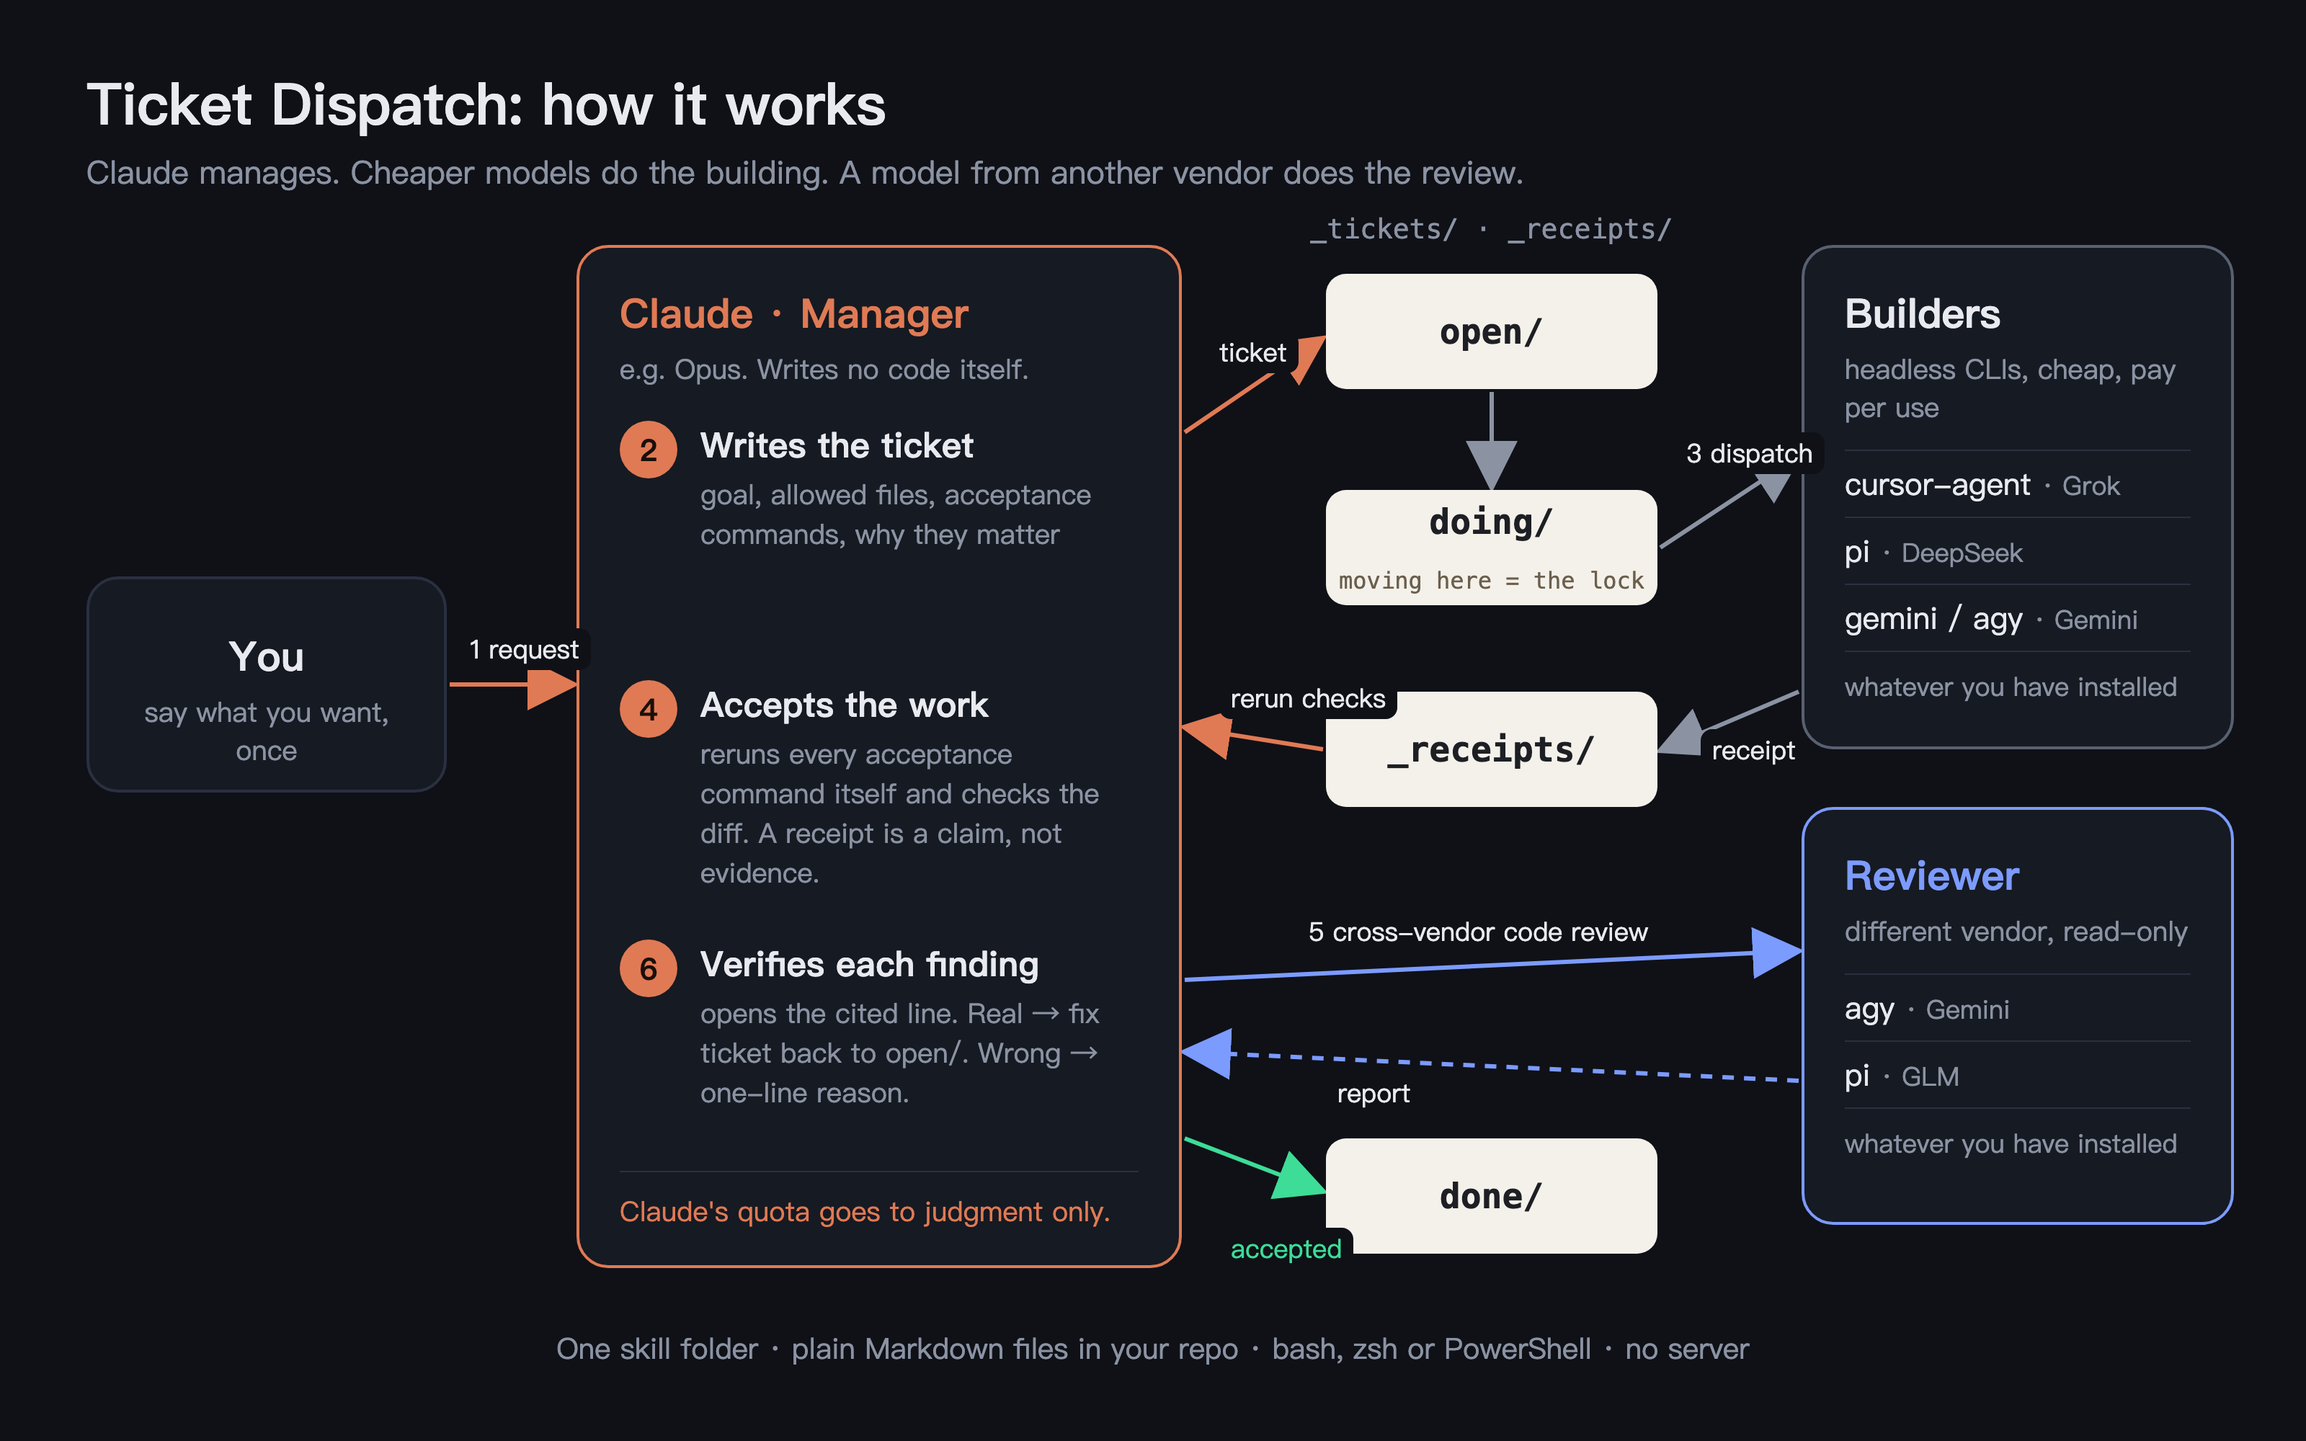
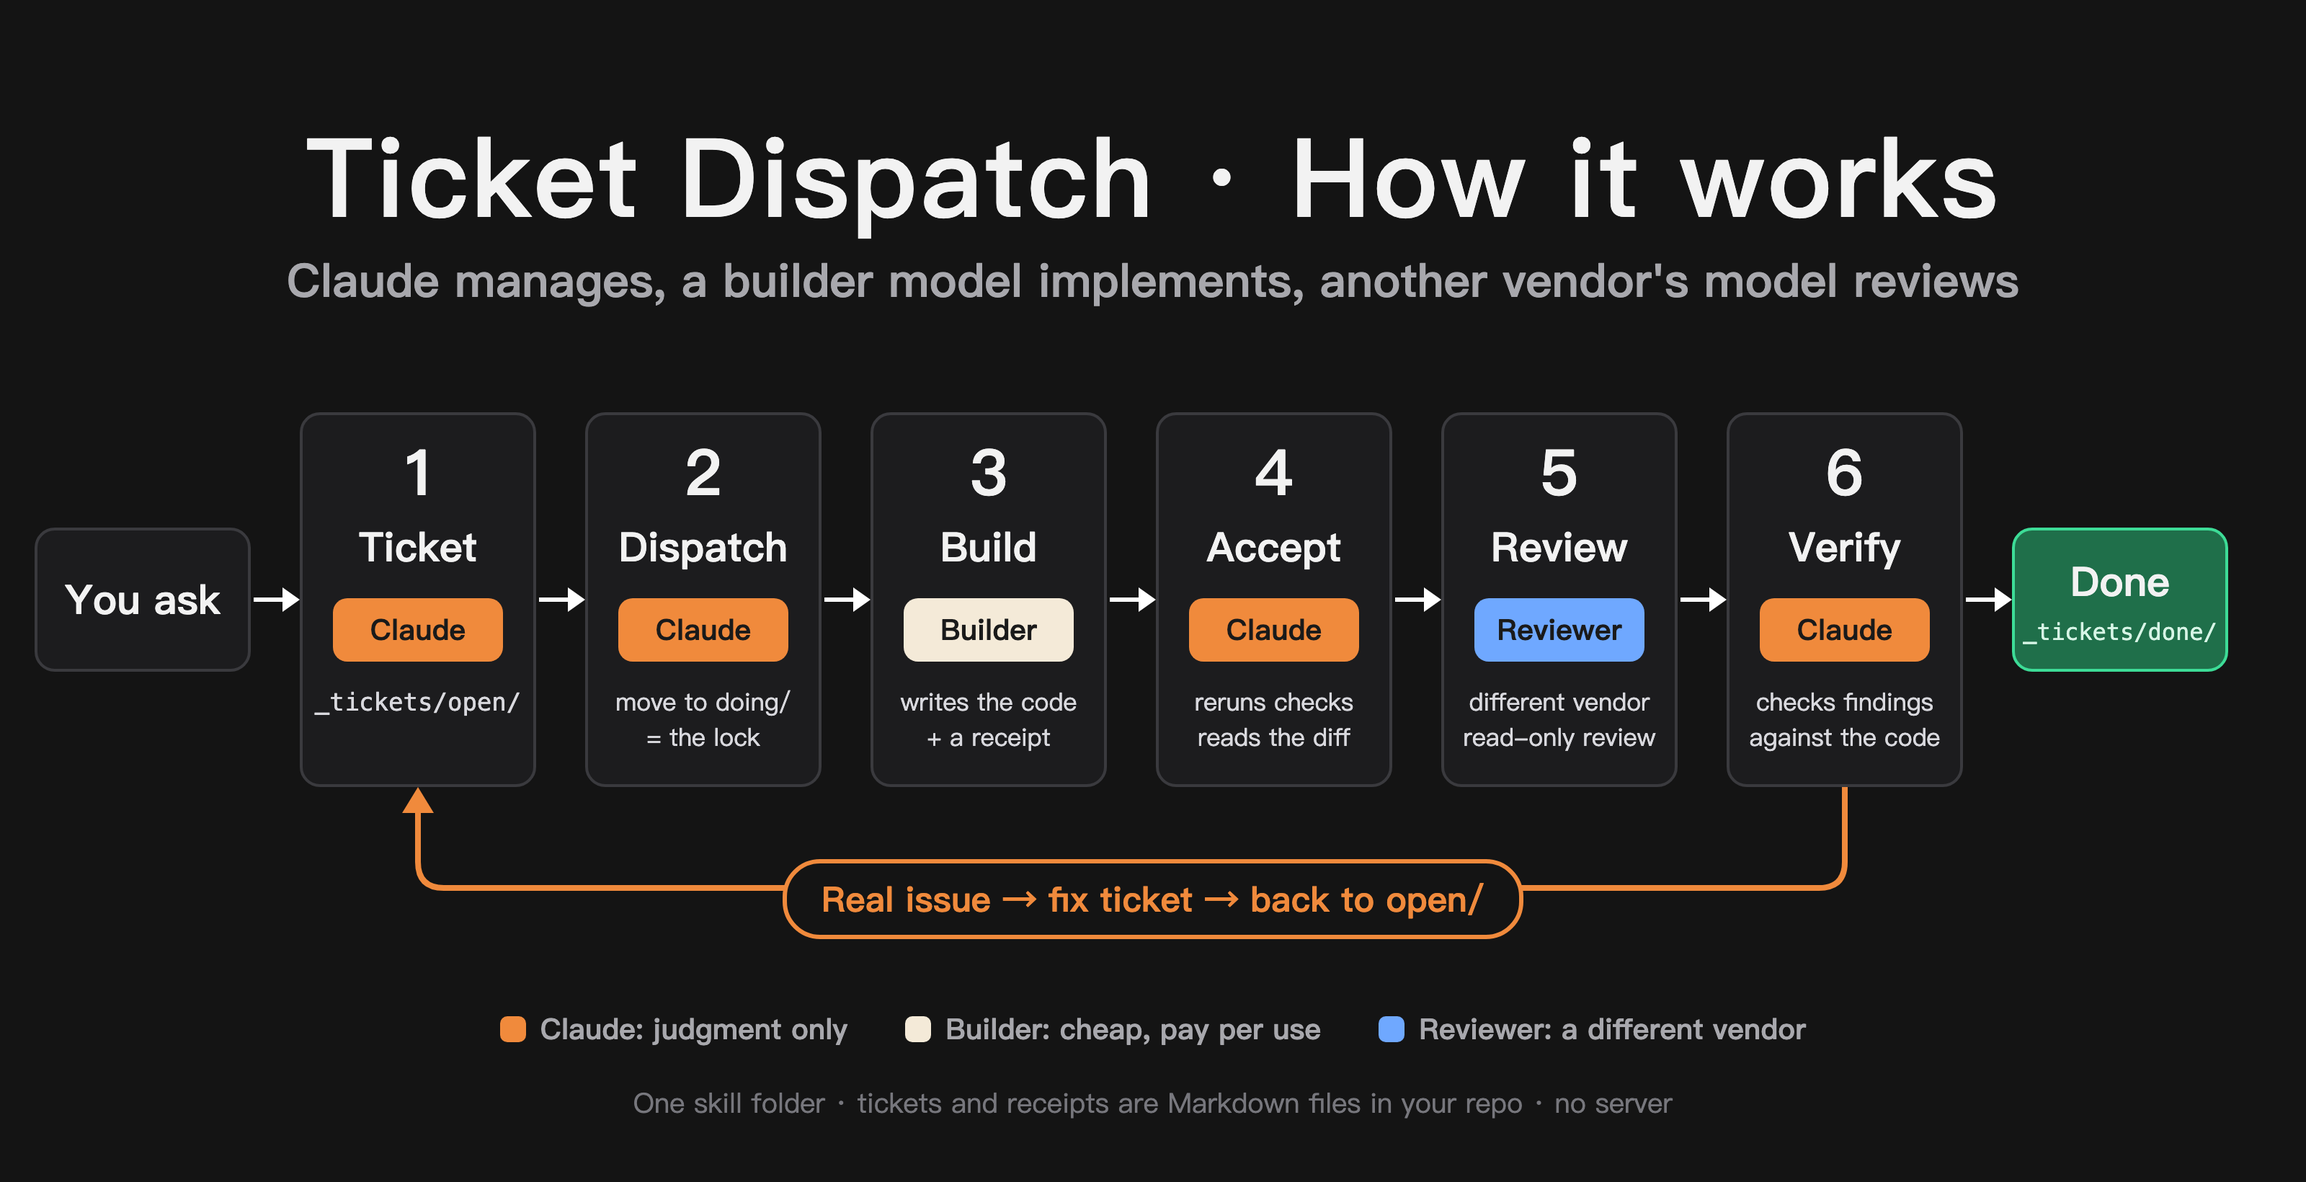
Redraw architecture diagram as a left-to-right pipeline with a fix-ticket loop

diff --git a/docs/architecture.html b/docs/architecture.html
@@ -2,132 +2,87 @@
 <html>
 <head>
 <meta charset="utf-8">
-<!-- Source of docs/architecture-{en,zh}.png. Render: open with ?lang=en or ?lang=zh at 1600x1000. -->
+<!-- Source of docs/architecture-{en,zh}.png. Render at 1600x820 with ?lang=en or ?lang=zh. -->
 <style>
-  :root { --bg:#0f1117; --panel:#161a22; --line:#2a3040; --text:#e8eaf0; --dim:#8b93a3;
-          --claude:#e07a54; --builder:#d9dde6; --review:#7c9bff; --paper:#f4f1ea; --ink:#1d1f24; --green:#3ddc97; }
+  :root { --bg:#141414; --card:#1c1c1e; --line:#3a3a3e; --text:#f2f2f2; --dim:#a8a8ad;
+          --claude:#f08a3c; --builder:#f4ead8; --review:#6fa8ff; --done:#1f6f4a; --doneline:#3ddc97; }
   * { margin:0; padding:0; box-sizing:border-box; }
-  html, body { width:1600px; height:1000px; background:var(--bg); color:var(--text);
+  html, body { width:1600px; height:820px; background:var(--bg); color:var(--text);
     font-family: Inter, "PingFang SC", "Microsoft YaHei", -apple-system, sans-serif; }
-  .abs { position:absolute; }
   .mono { font-family: "JetBrains Mono", "SF Mono", Menlo, "PingFang SC", monospace; }
-  h1 { position:absolute; left:60px; top:44px; font-size:40px; font-weight:800; letter-spacing:-0.01em; }
-  .sub { position:absolute; left:60px; top:104px; font-size:22px; color:var(--dim); }
-  .box { position:absolute; border-radius:22px; background:var(--panel); border:2px solid var(--line); padding:26px 28px; }
-  .box h2 { font-size:28px; font-weight:800; margin-bottom:6px; }
-  .box .tag { font-size:19px; color:var(--dim); }
-  .you { left:60px; top:400px; width:250px; height:150px; text-align:center; padding-top:34px; }
-  .mgr { left:400px; top:170px; width:420px; height:710px; border-color:var(--claude); }
-  .mgr h2 { color:var(--claude); }
-  .step { position:absolute; left:28px; right:24px; display:flex; gap:16px; }
-  .num { flex:none; width:40px; height:40px; border-radius:50%; background:var(--claude); color:#1a0f0a; font-weight:800; font-size:21px; display:grid; place-items:center; }
-  .step b { display:block; font-size:24px; margin-bottom:4px; }
-  .step span { font-size:19px; color:var(--dim); line-height:1.45; }
-  .mgr .foot { position:absolute; left:28px; right:28px; bottom:24px; font-size:19px; color:var(--claude); border-top:1px solid var(--line); padding-top:14px; }
-  .folder { position:absolute; left:920px; width:230px; height:80px; border-radius:14px; background:var(--paper); color:var(--ink); font-size:24px; font-weight:700; display:grid; place-items:center; }
-  .folder small { display:block; font-size:16px; font-weight:500; color:#6b5f4d; text-align:center; margin-top:2px; }
-  .colhead { position:absolute; left:860px; top:148px; width:350px; text-align:center; font-size:19px; color:var(--dim); }
-  .wk { left:1250px; width:300px; }
-  .wk ul { list-style:none; margin-top:16px; }
-  .wk li { font-size:21px; padding:8px 0; border-top:1px solid var(--line); }
-  .wk li i { font-style:normal; color:var(--dim); font-size:18px; }
-  .builders { top:170px; height:350px; border-color:#596070; }
-  .reviewer { top:560px; height:290px; border-color:var(--review); }
-  .reviewer h2 { color:var(--review); }
-  .lbl { position:absolute; font-size:18px; color:var(--text); background:var(--bg); padding:2px 8px; border-radius:8px; white-space:nowrap; }
-  .foot2 { position:absolute; left:60px; right:60px; top:922px; font-size:20px; color:var(--dim); text-align:center; }
+  h1 { position:absolute; left:0; right:0; top:70px; text-align:center; font-size:76px; font-weight:900; letter-spacing:.02em; }
+  .sub { position:absolute; left:0; right:0; top:172px; text-align:center; font-size:32px; font-weight:600; color:var(--dim); }
+  .row { position:absolute; left:24px; right:24px; top:286px; height:260px; display:flex; align-items:center; }
+  .side { flex:none; width:150px; height:100px; border:2px solid var(--line); border-radius:14px; background:var(--card);
+    display:flex; flex-direction:column; align-items:center; justify-content:center; font-size:28px; font-weight:800; text-align:center; }
+  .side.done { background:var(--done); border-color:var(--doneline); }
+  .side small { font-size:16px; font-weight:500; margin-top:6px; color:#d7f5e6; }
+  .arrow { flex:none; width:30px; height:3px; background:#fff; position:relative; margin:0 2px; }
+  .arrow::after { content:""; position:absolute; right:-2px; top:-7px; border-left:12px solid #fff; border-top:8.5px solid transparent; border-bottom:8.5px solid transparent; }
+  .step { flex:none; width:164px; height:260px; border:2px solid var(--line); border-radius:14px; background:var(--card);
+    display:flex; flex-direction:column; align-items:center; padding-top:18px; text-align:center; }
+  .step .n { font-size:44px; font-weight:900; line-height:1; }
+  .step .t { font-size:28px; font-weight:800; margin-top:10px; white-space:nowrap; }
+  .chip { margin-top:16px; min-width:118px; padding:8px 14px; border-radius:10px; font-size:20px; font-weight:800; color:#1a1a1a; }
+  .chip.c { background:var(--claude); } .chip.b { background:var(--builder); } .chip.r { background:var(--review); }
+  .step .d { margin-top:16px; padding:0 8px; font-size:17px; line-height:1.45; color:#d9d9de; white-space:pre-line; }
   svg { position:absolute; left:0; top:0; }
+  .loop { position:absolute; left:50%; transform:translateX(-50%); top:596px; padding:8px 24px; border:3px solid var(--claude); border-radius:26px;
+    background:var(--bg); color:var(--claude); font-size:24px; font-weight:800; white-space:nowrap; }
+  .legend { position:absolute; left:0; right:0; top:700px; display:flex; justify-content:center; gap:40px; font-size:20px; color:var(--dim); }
+  .legend span { display:inline-flex; align-items:center; gap:10px; }
+  .legend i { width:18px; height:18px; border-radius:5px; display:inline-block; }
+  .foot { position:absolute; left:0; right:0; top:752px; text-align:center; font-size:19px; color:#77777d; }
 </style>
 </head>
 <body>
 <h1 data-t="title"></h1>
 <div class="sub" data-t="sub"></div>
 
-<svg width="1600" height="1000">
-  <defs>
-    <marker id="a" markerWidth="12" markerHeight="12" refX="10" refY="6" orient="auto"><path d="M0,0 L12,6 L0,12 z" fill="#8b93a3"/></marker>
-    <marker id="ao" markerWidth="12" markerHeight="12" refX="10" refY="6" orient="auto"><path d="M0,0 L12,6 L0,12 z" fill="#e07a54"/></marker>
-    <marker id="ab" markerWidth="12" markerHeight="12" refX="10" refY="6" orient="auto"><path d="M0,0 L12,6 L0,12 z" fill="#7c9bff"/></marker>
-    <marker id="ag" markerWidth="12" markerHeight="12" refX="10" refY="6" orient="auto"><path d="M0,0 L12,6 L0,12 z" fill="#3ddc97"/></marker>
-  </defs>
-  <g stroke-width="3" fill="none">
-    <path d="M312 475 L396 475" stroke="#e07a54" marker-end="url(#ao)"/>
-    <path d="M822 300 L916 236" stroke="#e07a54" marker-end="url(#ao)"/>
-    <path d="M1035 272 L1035 336" stroke="#8b93a3" marker-end="url(#a)"/>
-    <path d="M1152 380 L1246 318" stroke="#8b93a3" marker-end="url(#a)"/>
-    <path d="M1248 480 L1154 520" stroke="#8b93a3" marker-end="url(#a)"/>
-    <path d="M918 520 L824 505" stroke="#e07a54" marker-end="url(#ao)"/>
-    <path d="M822 680 L1246 660" stroke="#7c9bff" marker-end="url(#ab)"/>
-    <path d="M1248 750 L824 730" stroke="#7c9bff" stroke-dasharray="8 7" marker-end="url(#ab)"/>
-    <path d="M822 790 L916 826" stroke="#3ddc97" marker-end="url(#ag)"/>
-  </g>
-</svg>
-
-<div class="box you"><h2 data-t="you"></h2><div class="tag" data-t="you_tag"></div></div>
-
-<div class="box mgr">
-  <h2 data-t="mgr"></h2><div class="tag" data-t="mgr_tag"></div>
-  <div class="step" style="top:120px"><div class="num">2</div><div><b data-t="s2"></b><span data-t="s2d"></span></div></div>
-  <div class="step" style="top:300px"><div class="num">4</div><div><b data-t="s4"></b><span data-t="s4d"></span></div></div>
-  <div class="step" style="top:480px"><div class="num">6</div><div><b data-t="s6"></b><span data-t="s6d"></span></div></div>
-  <div class="foot" data-t="mgr_foot"></div>
+<div class="row">
+  <div class="side" data-t="you"></div><div class="arrow"></div>
+  <div class="step" id="s1"><div class="n">1</div><div class="t" data-t="t1"></div><div class="chip c">Claude</div><div class="d mono">_tickets/open/</div></div><div class="arrow"></div>
+  <div class="step"><div class="n">2</div><div class="t" data-t="t2"></div><div class="chip c">Claude</div><div class="d" data-t="d2"></div></div><div class="arrow"></div>
+  <div class="step"><div class="n">3</div><div class="t" data-t="t3"></div><div class="chip b" data-t="builder"></div><div class="d" data-t="d3"></div></div><div class="arrow"></div>
+  <div class="step"><div class="n">4</div><div class="t" data-t="t4"></div><div class="chip c">Claude</div><div class="d" data-t="d4"></div></div><div class="arrow"></div>
+  <div class="step"><div class="n">5</div><div class="t" data-t="t5"></div><div class="chip r" data-t="reviewer"></div><div class="d" data-t="d5"></div></div><div class="arrow"></div>
+  <div class="step" id="s6"><div class="n">6</div><div class="t" data-t="t6"></div><div class="chip c">Claude</div><div class="d" data-t="d6"></div></div><div class="arrow"></div>
+  <div class="side done"><span data-t="done"></span><small class="mono">_tickets/done/</small></div>
 </div>
 
-<div class="colhead mono">_tickets/ · _receipts/</div>
-<div class="folder mono" style="top:190px">open/</div>
-<div class="folder mono" style="top:340px">doing/<small data-t="lock"></small></div>
-<div class="folder mono" style="top:480px">_receipts/</div>
-<div class="folder mono" style="top:790px">done/</div>
+<svg width="1600" height="820"><g id="loopline" fill="none" stroke="#f08a3c" stroke-width="4"></g></svg>
+<div class="loop" data-t="loop"></div>
 
-<div class="box wk builders">
-  <h2 data-t="bld"></h2><div class="tag" data-t="bld_tag"></div>
-  <ul><li>cursor-agent <i>· Grok</i></li><li>pi <i>· DeepSeek</i></li><li>gemini / agy <i>· Gemini</i></li><li><i data-t="more"></i></li></ul>
+<div class="legend">
+  <span><i style="background:#f08a3c"></i><b data-t="lg_c"></b></span>
+  <span><i style="background:#f4ead8"></i><b data-t="lg_b"></b></span>
+  <span><i style="background:#6fa8ff"></i><b data-t="lg_r"></b></span>
 </div>
-<div class="box wk reviewer">
-  <h2 data-t="rev"></h2><div class="tag" data-t="rev_tag"></div>
-  <ul><li>agy <i>· Gemini</i></li><li>pi <i>· GLM</i></li><li><i data-t="more"></i></li></ul>
-</div>
-
-<div class="lbl" style="left:318px;top:436px" data-t="l1"></div>
-<div class="lbl" style="left:838px;top:230px" data-t="l2"></div>
-<div class="lbl" style="left:1162px;top:300px" data-t="l3"></div>
-<div class="lbl" style="left:1180px;top:506px" data-t="l3b"></div>
-<div class="lbl" style="left:846px;top:470px" data-t="l4"></div>
-<div class="lbl" style="left:900px;top:632px" data-t="l5"></div>
-<div class="lbl" style="left:920px;top:744px" data-t="l5b"></div>
-<div class="lbl" style="left:846px;top:852px;color:#3ddc97" data-t="l6"></div>
-
-<div class="foot2" data-t="foot"></div>
+<div class="foot" data-t="foot"></div>
 
 <script>
   const T = {
-    en: {
-      title: "Ticket Dispatch: how it works", sub: "Claude manages. Cheaper models do the building. A model from another vendor does the review.",
-      you: "You", you_tag: "say what you want, once",
-      mgr: "Claude · Manager", mgr_tag: "e.g. Opus. Writes no code itself.",
-      s2: "Writes the ticket", s2d: "goal, allowed files, acceptance commands, why they matter",
-      s4: "Accepts the work", s4d: "reruns every acceptance command itself and checks the diff. A receipt is a claim, not evidence.",
-      s6: "Verifies each finding", s6d: "opens the cited line. Real → fix ticket back to open/. Wrong → one-line reason.",
-      mgr_foot: "Claude's quota goes to judgment only.", lock: "moving here = the lock",
-      bld: "Builders", bld_tag: "headless CLIs, cheap, pay per use", rev: "Reviewer", rev_tag: "different vendor, read-only", more: "whatever you have installed",
-      l1: "1  request", l2: "ticket", l3: "3  dispatch", l3b: "receipt", l4: "rerun checks", l5: "5  cross-vendor code review", l5b: "report", l6: "accepted",
-      foot: "One skill folder · plain Markdown files in your repo · bash, zsh or PowerShell · no server"
-    },
-    zh: {
-      title: "工单托管 · 工作原理", sub: "Claude 负责管理，便宜模型负责施工，另一家厂商的模型负责审查。",
-      you: "你", you_tag: "说一次要什么",
-      mgr: "Claude · 经理", mgr_tag: "比如 Opus，不亲自写实现代码",
-      s2: "写工单", s2d: "目标、允许改的文件、验收命令，以及为什么这样验收",
-      s4: "验收", s4d: "亲自重跑每条验收命令、检查改动范围。回执只是说法，不是证据。",
-      s6: "逐条核实审查意见", s6d: "打开对应代码行。成立 → 修复单回到 open/；不成立 → 写明理由。",
-      mgr_foot: "Claude 的额度只花在判断上。", lock: "挪进来就是上锁",
-      bld: "施工", bld_tag: "命令行工人，便宜，按量付费", rev: "审查", rev_tag: "另一家厂商，只读", more: "你装了什么都可以",
-      l1: "1  需求", l2: "工单", l3: "3  派单", l3b: "回执", l4: "重跑验收", l5: "5  异族 Code Review", l5b: "审查报告", l6: "验收通过",
-      foot: "一个 skill 文件夹 · 纯 Markdown 文件放在你的仓库里 · bash、zsh 或 PowerShell · 不需要服务器"
-    }
+    zh: { title:"工单托管 · 工作原理", sub:"Claude 管理，施工模型实现，另一家的模型审查",
+      you:"你说需求", t1:"写工单", t2:"派单", d2:"移入 doing/\n即加锁", t3:"施工与回执", builder:"施工模型", d3:"实现代码\n写入 _receipts/",
+      t4:"验收", d4:"亲自重跑验收命令\n检查改动范围", t5:"异族审查", reviewer:"审查模型", d5:"另一家厂商\n只读 Code Review",
+      t6:"逐条核实", d6:"对照代码\n判断每条审查意见", done:"完成", loop:"问题成立 → 新建修复单 → 回到 open/",
+      lg_c:"Claude：只做判断", lg_b:"施工模型：便宜、按量付费", lg_r:"审查模型：换一家厂商",
+      foot:"一个 skill 文件夹 · 工单和回执都是仓库里的 Markdown 文件 · 不需要服务器" },
+    en: { title:"Ticket Dispatch · How it works", sub:"Claude manages, a builder model implements, another vendor's model reviews",
+      you:"You ask", t1:"Ticket", t2:"Dispatch", d2:"move to doing/\n= the lock", t3:"Build", builder:"Builder", d3:"writes the code\n+ a receipt",
+      t4:"Accept", d4:"reruns checks\nreads the diff", t5:"Review", reviewer:"Reviewer", d5:"different vendor\nread-only review",
+      t6:"Verify", d6:"checks findings\nagainst the code", done:"Done", loop:"Real issue → fix ticket → back to open/",
+      lg_c:"Claude: judgment only", lg_b:"Builder: cheap, pay per use", lg_r:"Reviewer: a different vendor",
+      foot:"One skill folder · tickets and receipts are Markdown files in your repo · no server" }
   };
-  const lang = new URLSearchParams(location.search).get("lang") === "zh" ? "zh" : "en";
+  const lang = new URLSearchParams(location.search).get("lang") === "en" ? "en" : "zh";
   document.querySelectorAll("[data-t]").forEach(el => el.textContent = T[lang][el.dataset.t]);
+  // loop arrow: from the bottom of step 6 back up into the bottom of step 1
+  const a = document.getElementById("s1").getBoundingClientRect(), b = document.getElementById("s6").getBoundingClientRect();
+  const x1 = a.left + a.width / 2, x6 = b.left + b.width / 2, yb = a.bottom, yl = 616, r = 18;
+  document.getElementById("loopline").innerHTML =
+    `<path d="M${x6} ${yb} V${yl - r} Q${x6} ${yl} ${x6 - r} ${yl} H${x1 + r} Q${x1} ${yl} ${x1} ${yl - r} V${yb + 16}"/>` +
+    `<path d="M${x1 - 11} ${yb + 18} L${x1} ${yb} L${x1 + 11} ${yb + 18} Z" fill="#f08a3c" stroke="none"/>`;
 </script>
 </body>
 </html>
